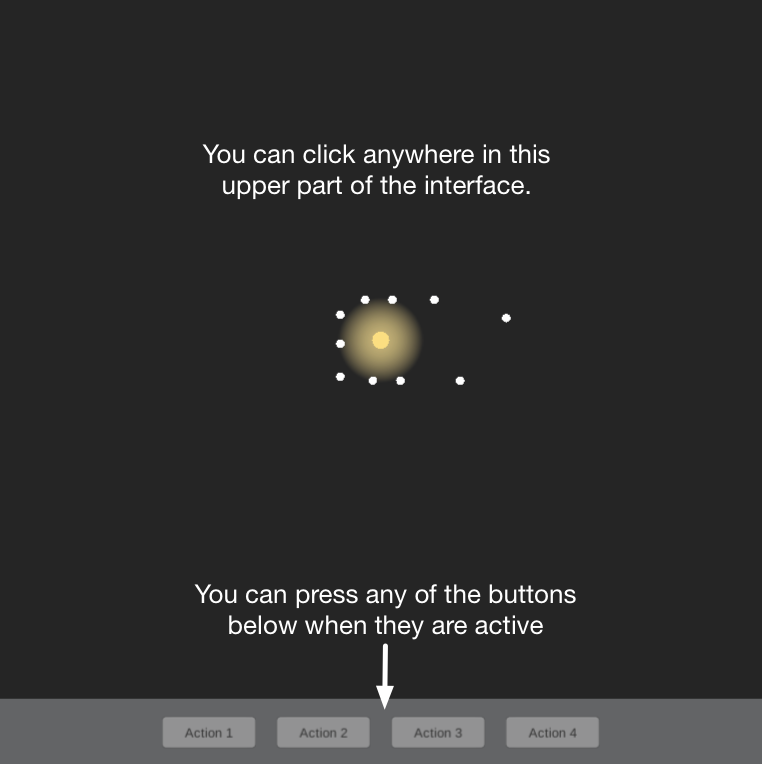
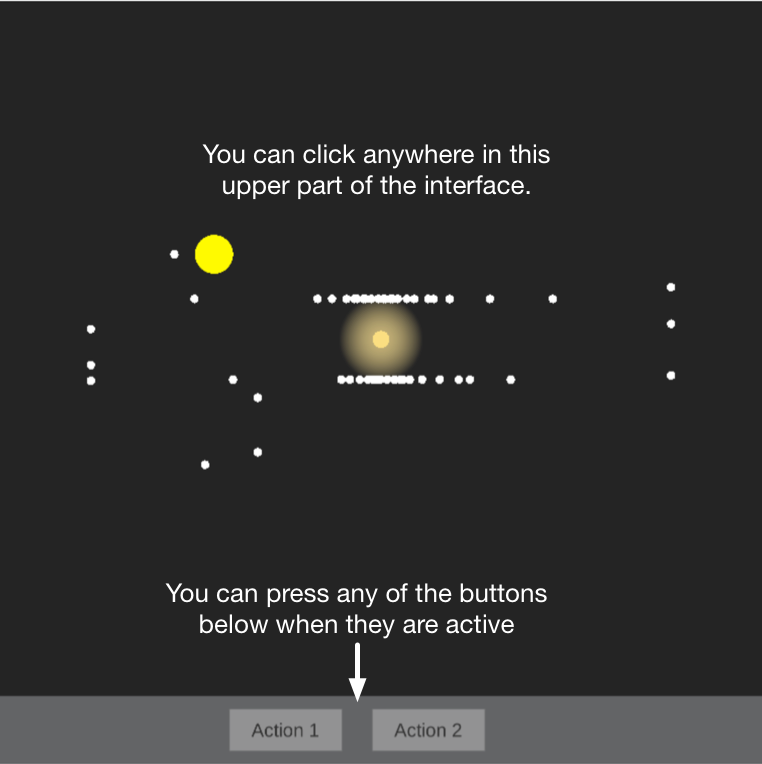
updated instructions page and some of the images.

diff --git a/templates/instructions/teacher-task-interface.html b/templates/instructions/teacher-task-interface.html
@@ -26,34 +26,26 @@
         <h2>Possible Actions</h2>
         <p>
             The interface is for controlling a simple simulated robot that can
-            sense and act in its environment. There are five possible actions
+            sense and act in its environment. There are three possible actions
             in this interface:
             <ul>
                 <li>
-                    <strong>Clicking on the screen</strong> sets waypoints for
-                    the robot.
+                    <strong>Clicking on the screen</strong> sets a waypoints for
+                    the robot to move to. As the robot moves it actively
+                    senses its environment and updates its model, as reflected
+                    by the white dots, which correspond to locations where its
+                    sensors detected a wall or obstacle, and the colored
+                    shapes, which correspond to objects in the robot has
+                    detected in the environment.
                 </li>
                 <li>
-                    <strong>Pressing the "Action 1" button</strong> makes the
-                    robot follow the active waypoints. As the robot moves it
-                    actively senses its environment and updates its model, as
-                    reflected by the white dots, which correspond to locations
-                    where its sensors detected a wall or obstacle, and the
-                    colored shapes, which correspond to objects in the robot
-                    has detected in the environment.
-                </li>
-                <li>
-                    <strong>Pressing the "Action 2" button</strong> deletes all
-                    the active waypoints.
-                </li>
-                <li>
-                    <strong>Pressing the "Action 3" button</strong> while over
+                    <strong>Pressing the "Action 1" button</strong> while over
                     an object (the colored shapes) makes the robot pickup the
                     object and put it in its inventory. Only one object can be
                     held at a time.
                 </li>
                 <li>
-                    <strong>Pressing the "Action 4" button</strong> will drop
+                    <strong>Pressing the "Action 2" button</strong> will drop
                     an object that is currently in the robot's inventory.
                 </li>
             </ul>

diff --git a/templates/instructions/teacher-process-and-role.html b/templates/instructions/teacher-process-and-role.html
@@ -33,17 +33,18 @@
         <p>
             You are currently on the "instructions" step.  Once you finish the
             instructions, you will then teach the AI student to perform the
-            same task in the context of three scenarios. Finally, you will be
-            asked to complete a questionaire regarding your teaching experience.
+            same task in the context of three scenarios (S1, S2, S3).
+            Finally, you will be asked to complete a questionaire regarding
+            your teaching experience.
         </p>
 
         <h2>AI Student Evaluation</h2>
         <p>
             After you complete the experiment, we will test the AI student
             that you taught to see if it can complete the same task in three
-            novel scenarios. The performance of the AI student on these test
-            problems will determine your bonus, so make sure you do your best
-            to teach it!
+            novel scenarios (S4, S5, S6). The performance of the AI student on
+            these test problems will determine your bonus, so make sure you do
+            your best to teach it!
         </p>
 
 	    <script type="text/javascript">

diff --git a/templates/instructions/student-process-and-role.html b/templates/instructions/student-process-and-role.html
@@ -31,12 +31,13 @@
         <p>
             You are currently on the "instructions" stage. Once you
             finish, the AI system will teach you to perform a task in the
-            context of three scenarios. After you complete this training, then
-            you will be tested on your knowledge in three novel scenarios. Your
-            performance on these test scenarios will determine your bonus, so
-            make sure to do your best to learn the task and perform it
-            correctly. Finally, once you finish the test scenarios, you will
-            complete a questionaire about your experience.
+            context of three scenarios (S1, S2, S3). After you complete
+            this training, then you will be tested on your knowledge in three
+            novel scenarios (S4, S5, S6). Your performance on these test
+            scenarios will determine your bonus, so make sure to do your best
+            to learn the task and perform it correctly. Finally, once you
+            finish the test scenarios, you will complete a questionaire about
+            your experience.
         </p>
 
 	    <script type="text/javascript">

diff --git a/templates/instructions/teacher-training-interface-demonstrate.html b/templates/instructions/teacher-training-interface-demonstrate.html
@@ -24,11 +24,13 @@
 
         <h2>Demonstrations</h2>
         <p>
-            To instruct the AI student, simply provide them with examples of how
-            to correctly perform the task. When you are done performing the
-            task press the "Mark Task Complete" action in the bottom right
-            menu. When you mark a task complete you will move on to the next
-            scenario, so you can provide another demonstration.
+            To instruct the AI student, provide them with examples of how
+            to correctly perform the task directly in the task interface
+        </p>
+        <p>
+            Additionally, you can press the "Mark Task Complete" action in the bottom right
+            menu to specify that the task has is finished. When you mark a task
+            complete, it will move the student on to the next scenario.
         </p>
 
         <h2>Interaction Log</h2>

diff --git a/templates/instructions/student-training-interface-reward.html b/templates/instructions/student-training-interface-reward.html
@@ -27,7 +27,7 @@
         <p>
             For this experiment, you can take three kinds of actions to get
             instruction from the teacher: <strong>take action in the task
-                interface</strong> and <strong>verify that the task is complete
+            interface</strong> and <strong>verify that the task is complete
             </strong>. 
 	    </p>
 
